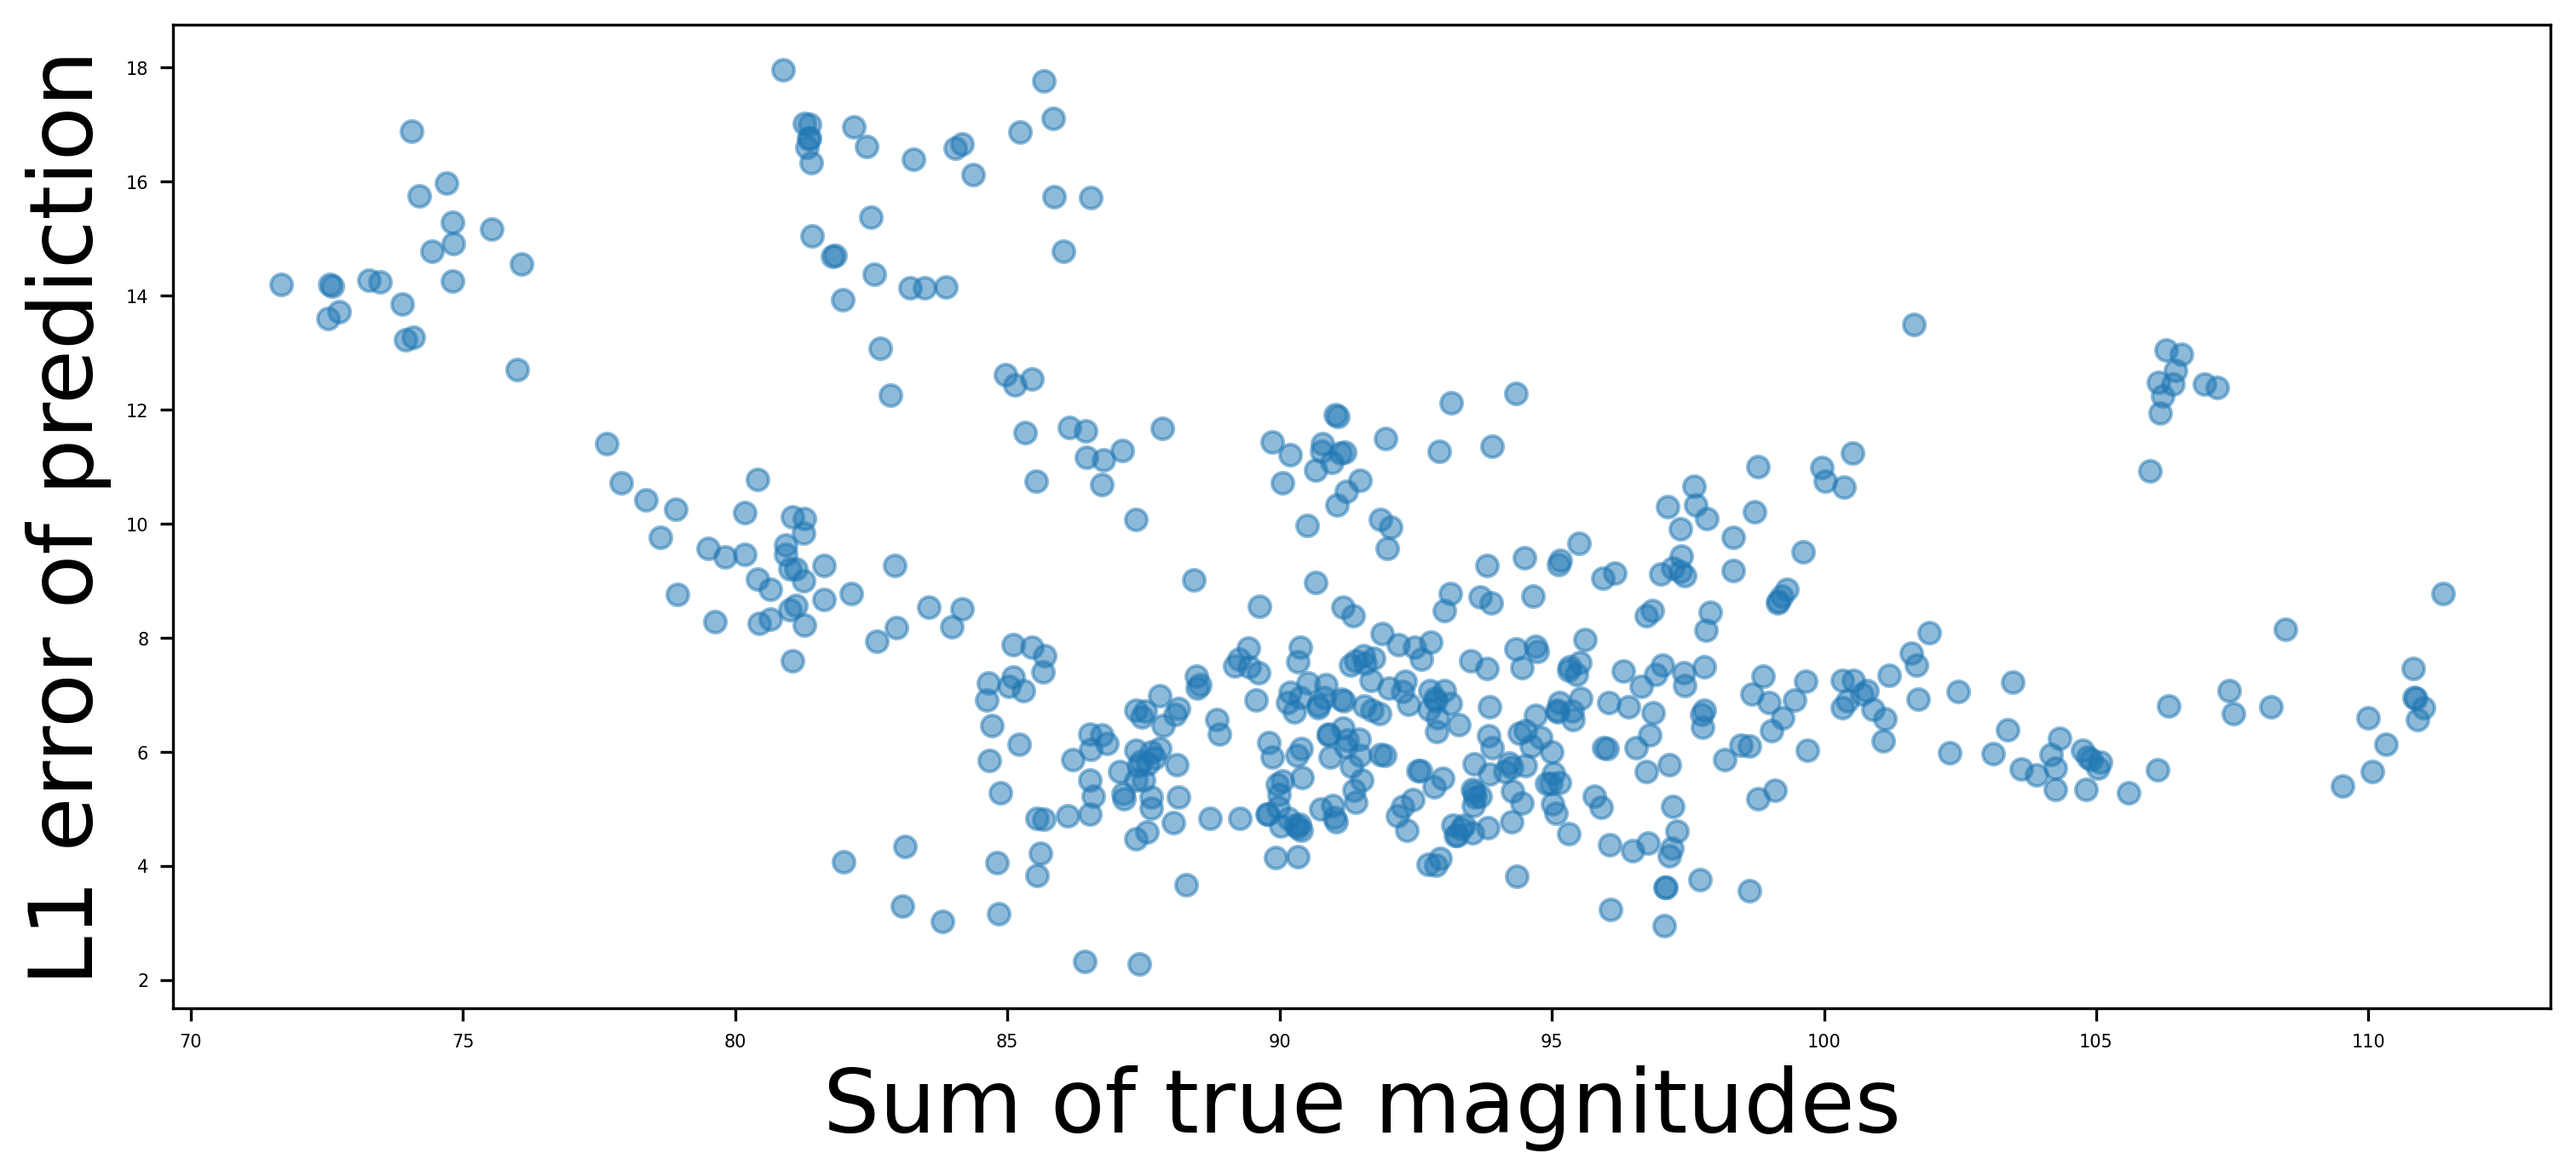
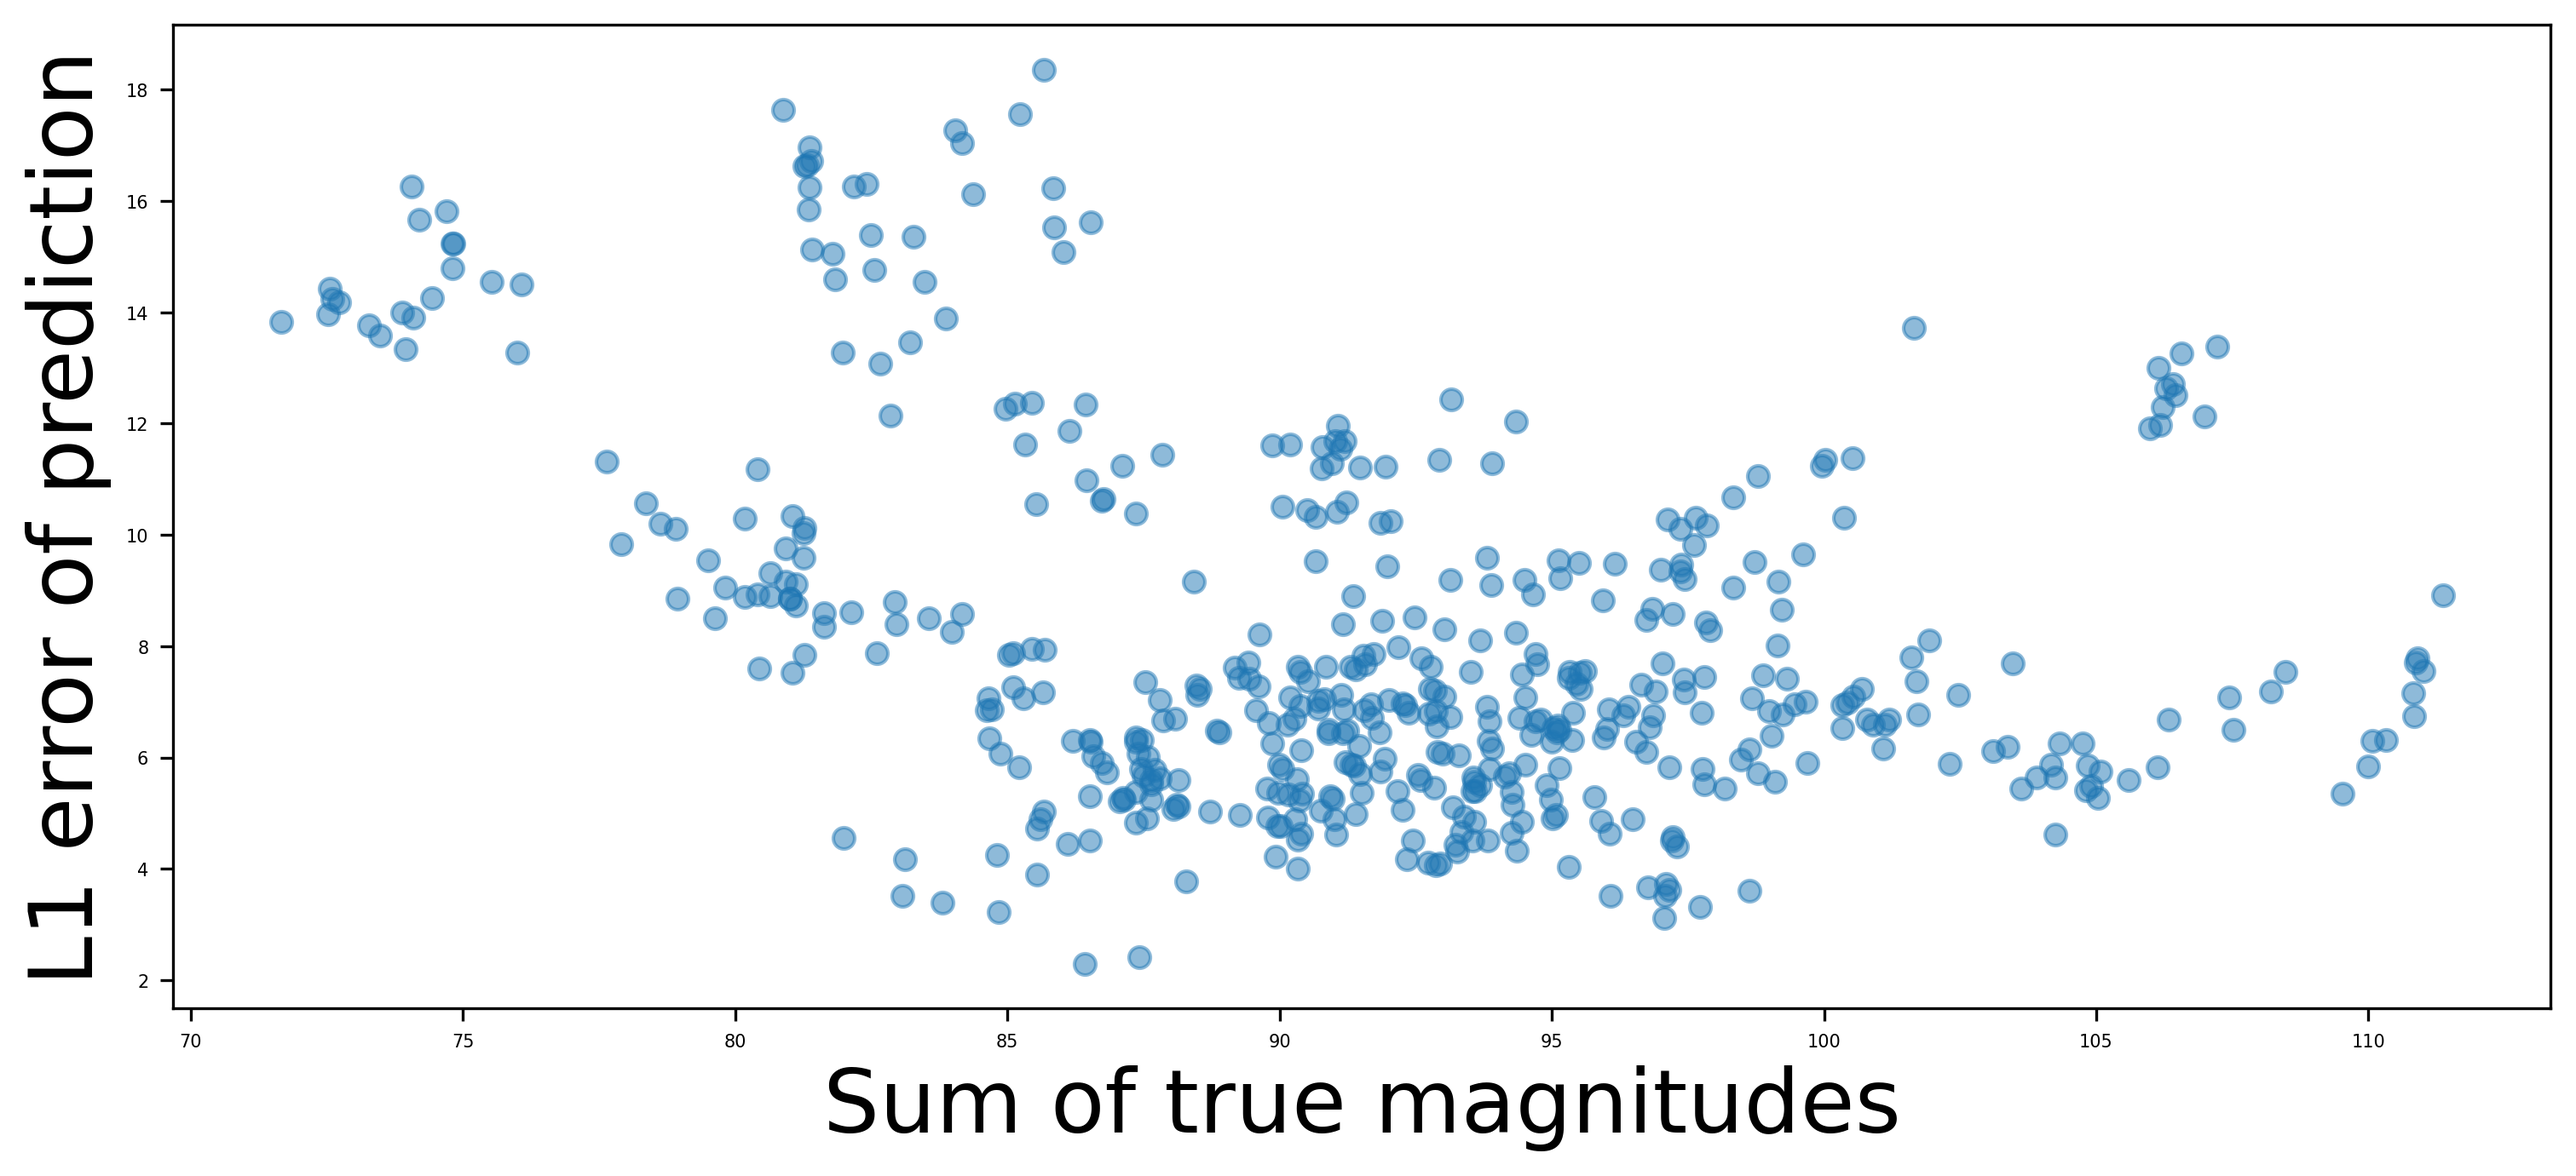
MC Dropout: corrected std computation

diff --git a/analysis/4_1_mc_dropout.py b/analysis/4_1_mc_dropout.py
@@ -9,7 +9,7 @@ import json
 with open('../config.json', 'r') as f:
     config = json.load(f)
 
-mode = "training_subset_mc_dropout"
+mode = "training_mc_dropout"
 
 PREPROCESSING_METHOD = config["preprocessing_method"]
 HOW_MANY_OUTER_TO_REMOVE = config["how_many_outer_to_remove"]
@@ -20,7 +20,7 @@ DROPOUT_PROB = config["dropout_prob"]
 
 DATA_PATH = config["training_data_path"]
 MODELS_PATH = config["models_path"]
-FIGURES_PATH = config["figures_path"]
+FIGURES_PATH = config["figures_path"][mode]
 
 if mode == "training_mc_dropout":
     nrows = 2
@@ -161,7 +161,8 @@ plot_l1_error(to_numpy(outputs), to_numpy(labels), path_to_save=FIGURES_PATH)
 
 plot_l1_error_with_density(to_numpy(outputs), to_numpy(labels), path_to_save=FIGURES_PATH)
 
-# Mean across MC runs, across samples in the test set
+# Mean and std across MC runs, across samples in the test set
+
 mean_label = torch.mean(labels, axis=0)
 mean_output = torch.mean(outputs, axis=0)
 mean_difference = torch.mean(difference, axis=0)
@@ -170,6 +171,8 @@ std_label = torch.std(labels, axis=0)
 std_output = torch.std(outputs, axis=0)
 std_difference = torch.std(difference, axis=0)
 
-print('##############################')
-print(mean_difference)
-print(std_difference)
+
+# Standard deviation of InksNet prediction based on 100 runs of Monte Carlo Dropout
+
+std_outputs = torch.std(torch.stack([outputs for outputs in outputss]), axis=0)
+print(torch.mean(std_outputs, axis=0))
